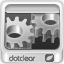
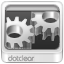
Mise à jour des icônes de Thomas Daveluy : corrections et nouvelles icônes (to be continued)
--HG--
branch : design

diff --git a/admin/style/default.css b/admin/style/default.css
@@ -425,16 +425,20 @@ abbr {
 #icons a:focus span, #icons a:hover span {
 	text-decoration: underline;
 }
-/* test */
+/* test
 #icons img {
-	padding: 6px;
-	background: #dfdfdf;
-	border: 1px solid #ccc;
+	padding: 8px;
+	background: #e5e5e5;
+	border: 1px solid #d9d9d9;
 	border-radius: 5px;
+	-webkit-box-shadow: 0px 1px 3px #ccc;
+	-moz-box-shadow: 0px 1px 3px #ccc;
+	box-shadow: 0px 1px 3px #ccc;
 }
 #icons a:hover img {
 	background: #bbb;
-}
+}*/
+
 #quick {
 	clear: left;
 	margin-top: 2em;
